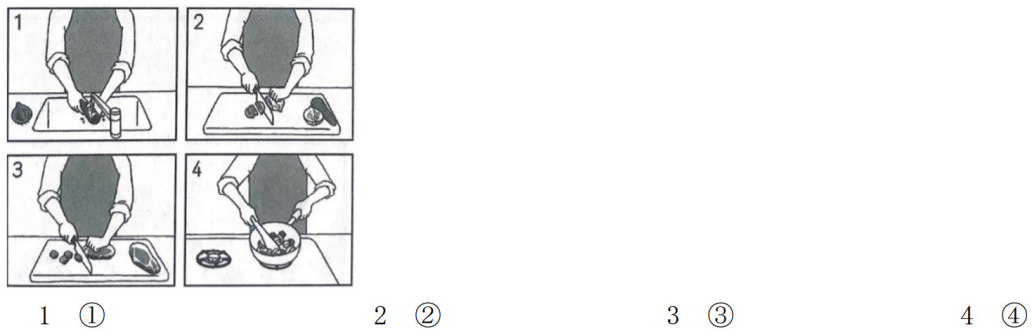
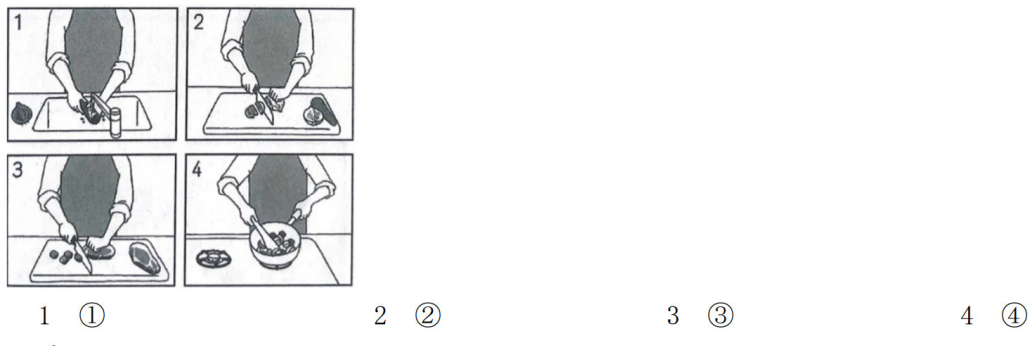
修 build_paper_full 的 --groups 重复注册 (补丁脚本反复追加导致)

diff --git a/tools/build_paper_full.py b/tools/build_paper_full.py
@@ -57,16 +57,6 @@ def main() -> int:
     ap.add_argument("--minutes", type=int, default=105)
     ap.add_argument("--groups", default="",
                     help="只重建这些分区, 逗号分隔: 文字・語彙,文法・読解,聴解")
-    ap.add_argument("--groups", default="",
-                    help="只重建这些分区, 逗号分隔: 文字・語彙,文法・読解,聴解")
-    ap.add_argument("--groups", default="",
-                    help="只重建这些分区, 逗号分隔: 文字・語彙,文法・読解,聴解")
-    ap.add_argument("--groups", default="",
-                    help="只重建这些分区, 逗号分隔: 文字・語彙,文法・読解,聴解")
-    ap.add_argument("--groups", default="",
-                    help="只重建这些分区, 逗号分隔: 文字・語彙,文法・読解,聴解")
-    ap.add_argument("--groups", default="",
-                    help="只重建这些分区, 逗号分隔: 文字・語彙,文法・読解,聴解")
     a = ap.parse_args()
 
     from app import exams
